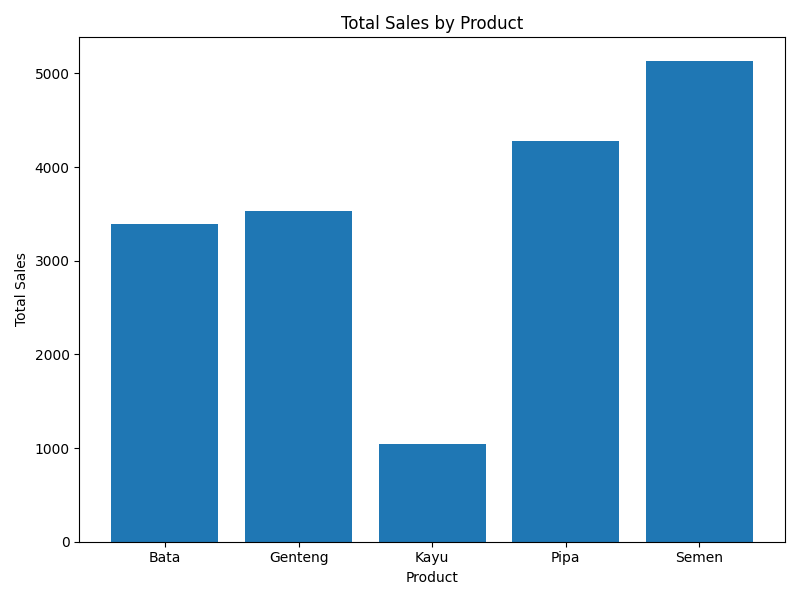
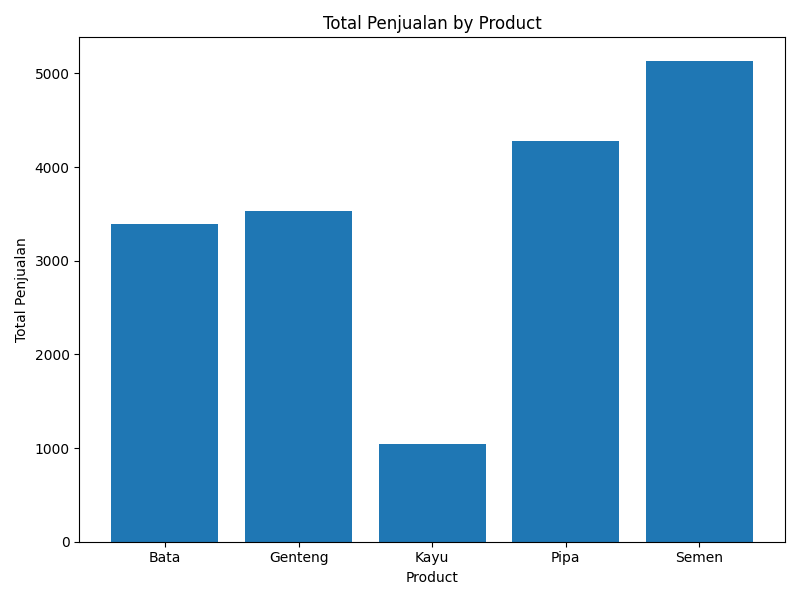
update title

Changed region(s): [[0.4062, 0.03, 0.6875, 0.06], [0.0, 0.39, 0.0312, 0.57]]

diff --git a/main.py b/main.py
@@ -26,21 +26,20 @@ data3_cleaned = data3.dropna()
 # Manipulate data
 data1_cleaned["Total Sales"] = data1_cleaned["Sales1"] + data1_cleaned["Sales2"]
 
-
 # Merge data
 merged_data = pd.merge(data1_cleaned, data2_cleaned, on="ID", how="inner")
 
+
 # Join data
 joined_data = merged_data.join(data3_cleaned.set_index("ID"), on="ID")
-print(joined_data)
 
-# visualize data
+# # visualize data
 # Based on Region
 plt.figure(figsize=(8, 6))
 plt.bar(joined_data["Region"], joined_data["Total Sales"])
-plt.xlabel("Region")
-plt.ylabel("Total Sales")
-plt.title("Total Sales by Region")
+plt.xlabel("Pulau")
+plt.ylabel("Total Penjualan")
+plt.title("Total Penjualan Berdasarkan Pulau")
 plt.savefig("total_penjualan.png")
 
 # Based on product
@@ -48,7 +47,7 @@ product_sales = joined_data.groupby("Product")["Total Sales"].sum()
 plt.figure(figsize=(8, 6))
 plt.bar(product_sales.index, product_sales.values)
 plt.xlabel("Product")
-plt.ylabel("Total Sales")
-plt.title("Total Sales by Product")
+plt.ylabel("Total Penjualan")
+plt.title("Total Penjualan by Product")
 plt.tight_layout()  # Adjust spacing
 plt.savefig("total_harga.png")
